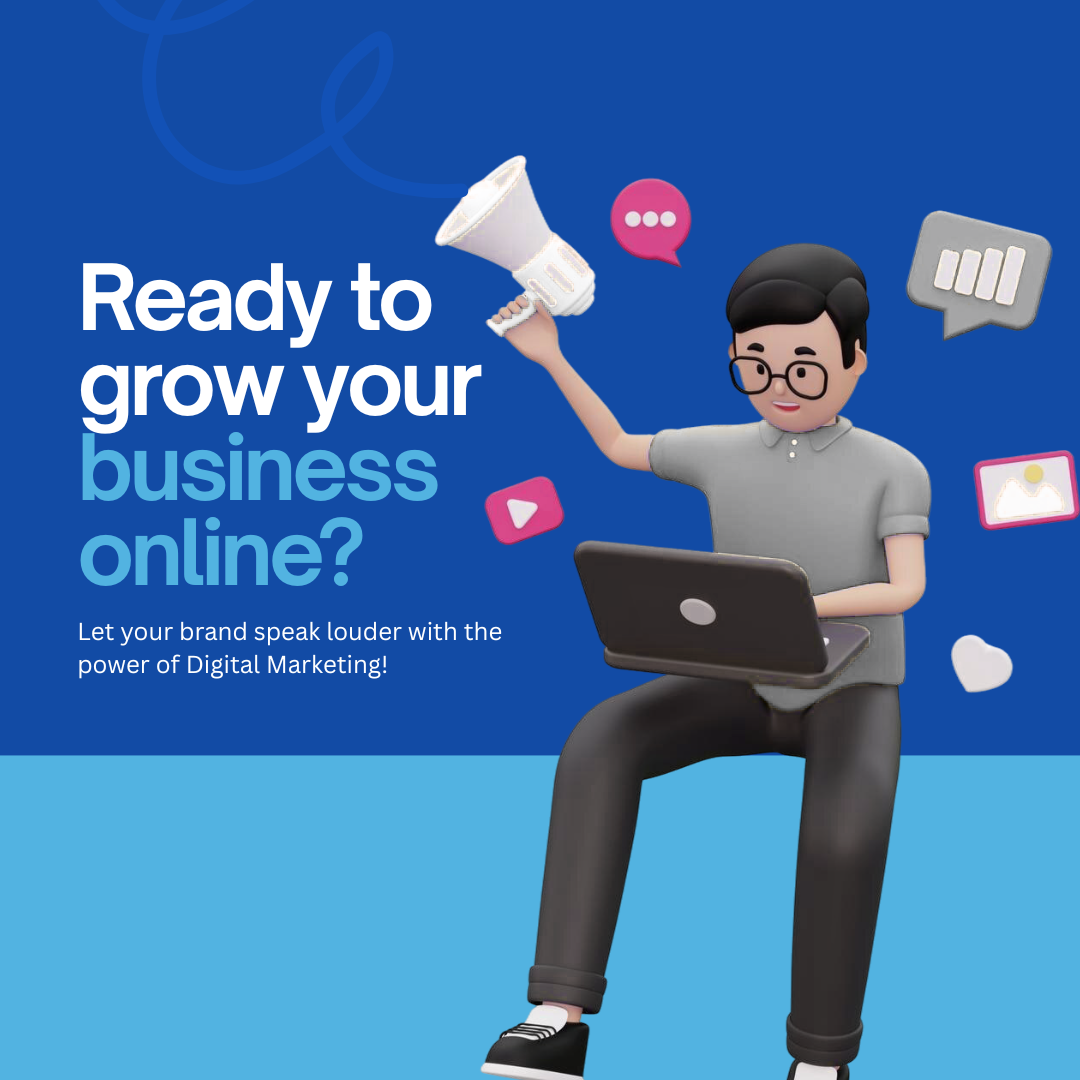
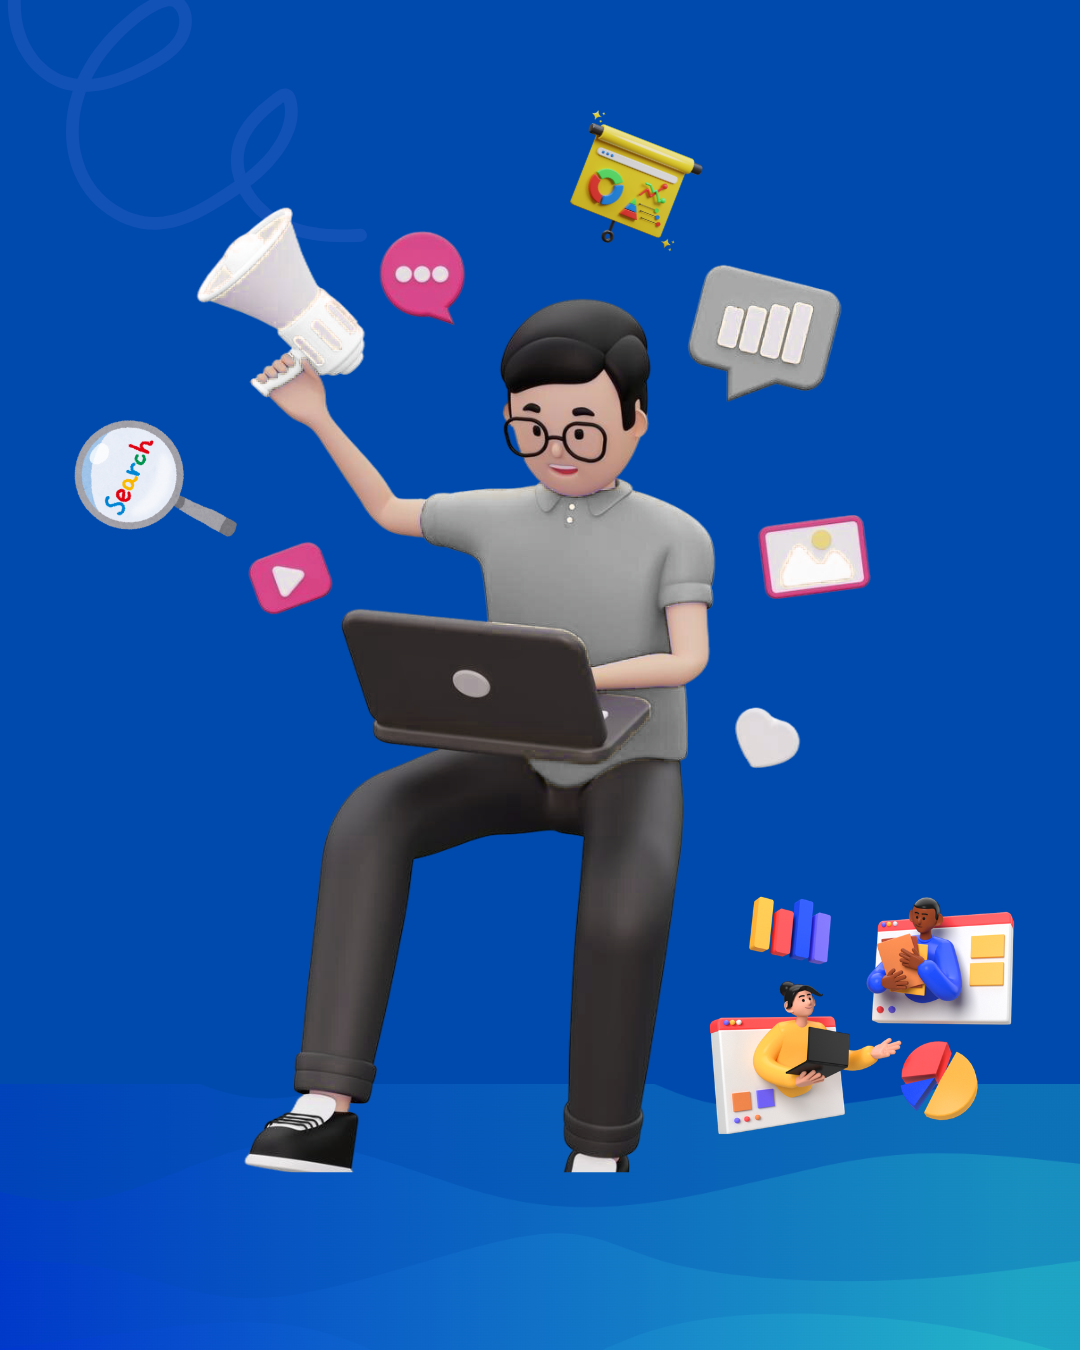
feat: src/components/Home/ServciesClient.tsx

diff --git a/src/components/Home/OurServices.tsx b/src/components/Home/OurServices.tsx
@@ -21,14 +21,14 @@ export const servicesData = [
     title: "Search Visibility Setup",
     desc: "We set up essential tools and structure your site properly so it can appear in search results and grow over time.",
     iconName: "Search",
-    img: "/ourservices/gsc.webp",
+    img: "/ourservices/google-sc.png",
   },
   {
     id: "ads",
-    title: "Google Ads Setup",
+    title: "Google & Meta Ads Setup",
     desc: "We create and set up targeted ad campaigns to bring real enquiries and help you reach customers faster.",
     iconName: "Megaphone",
-    img: "/ourservices/Ads.png",
+    img: "/ourservices/ADS.png",
   },
 ];
 
